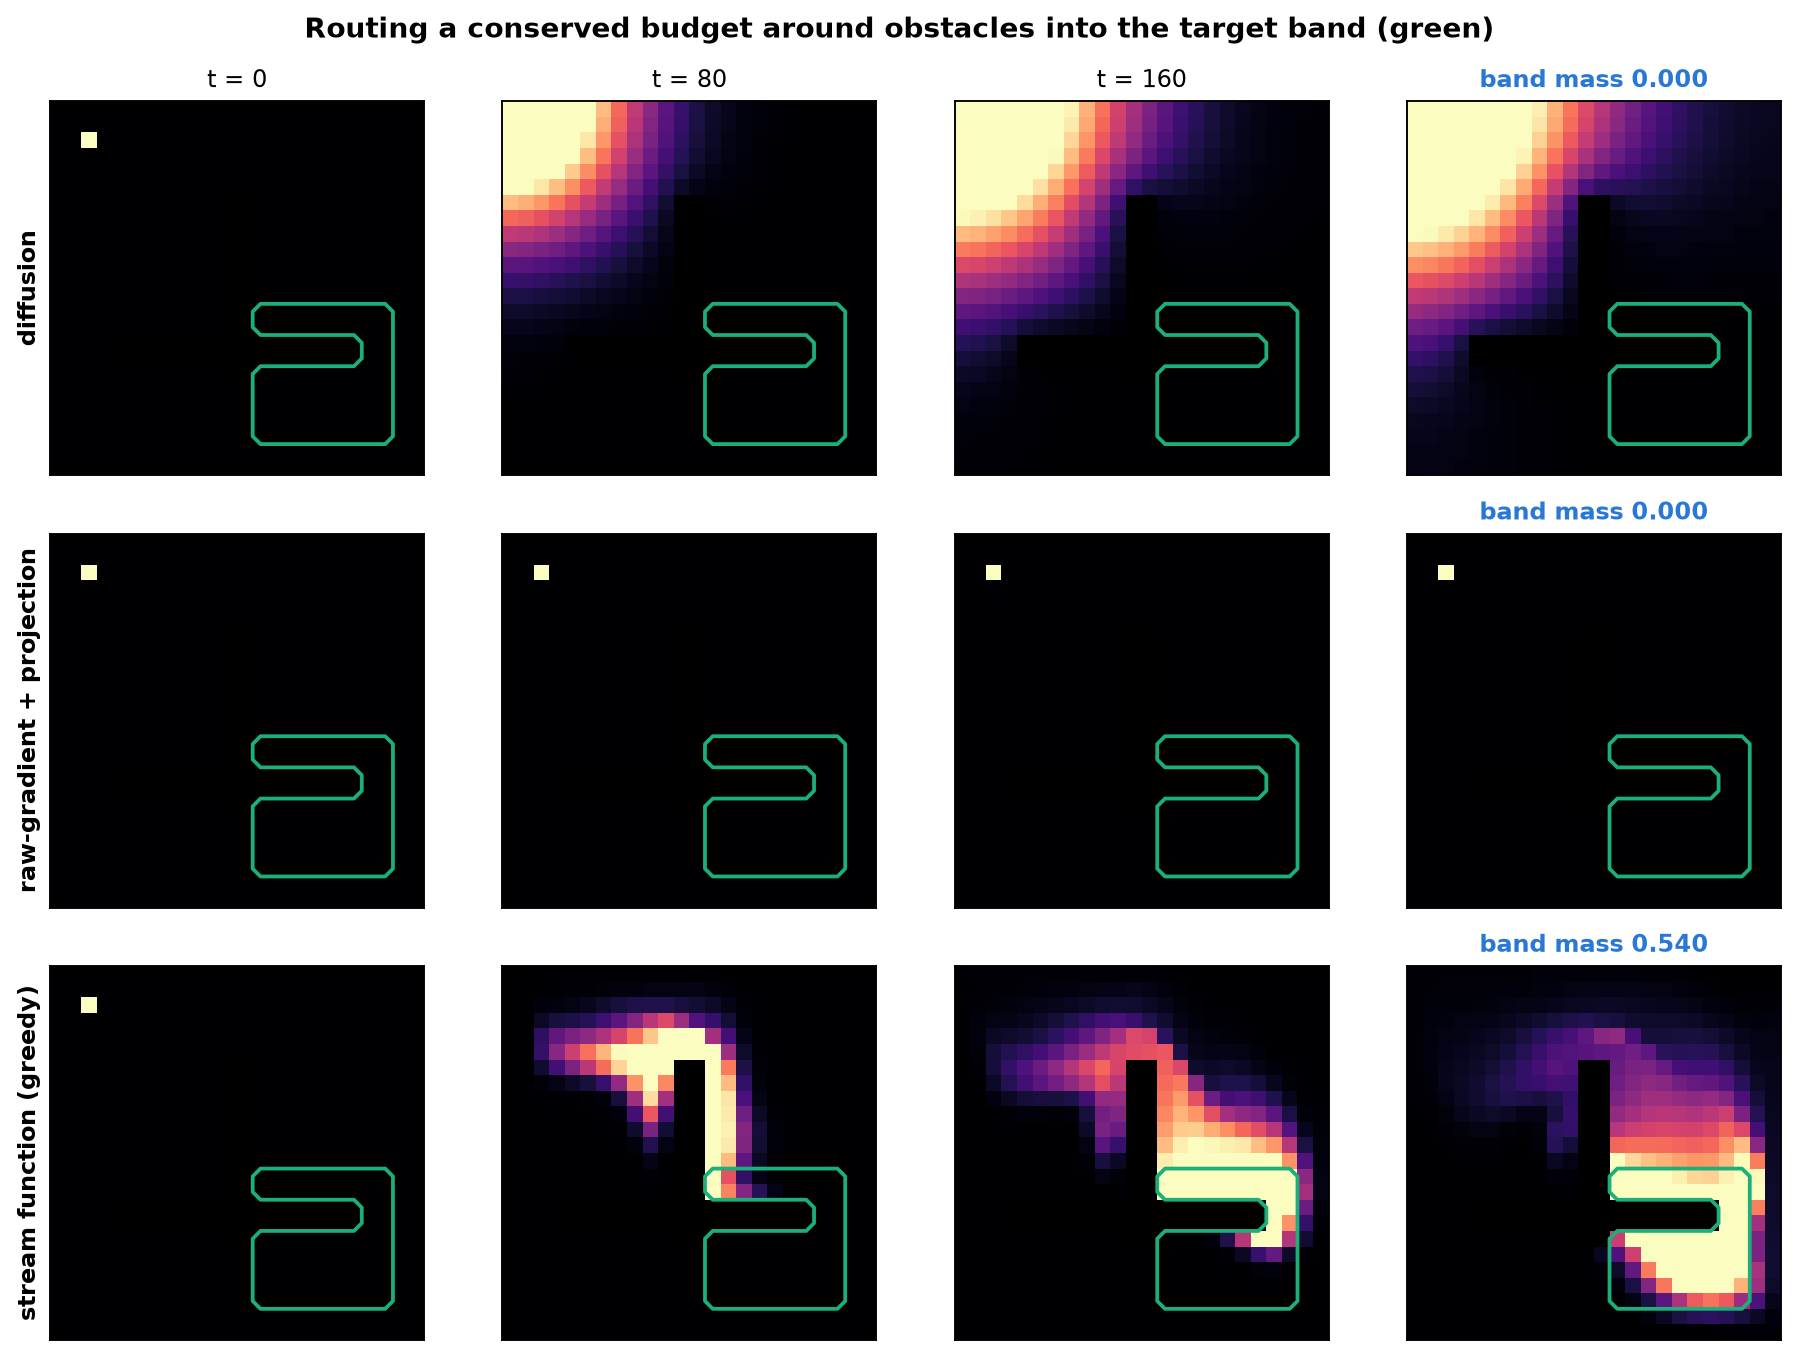
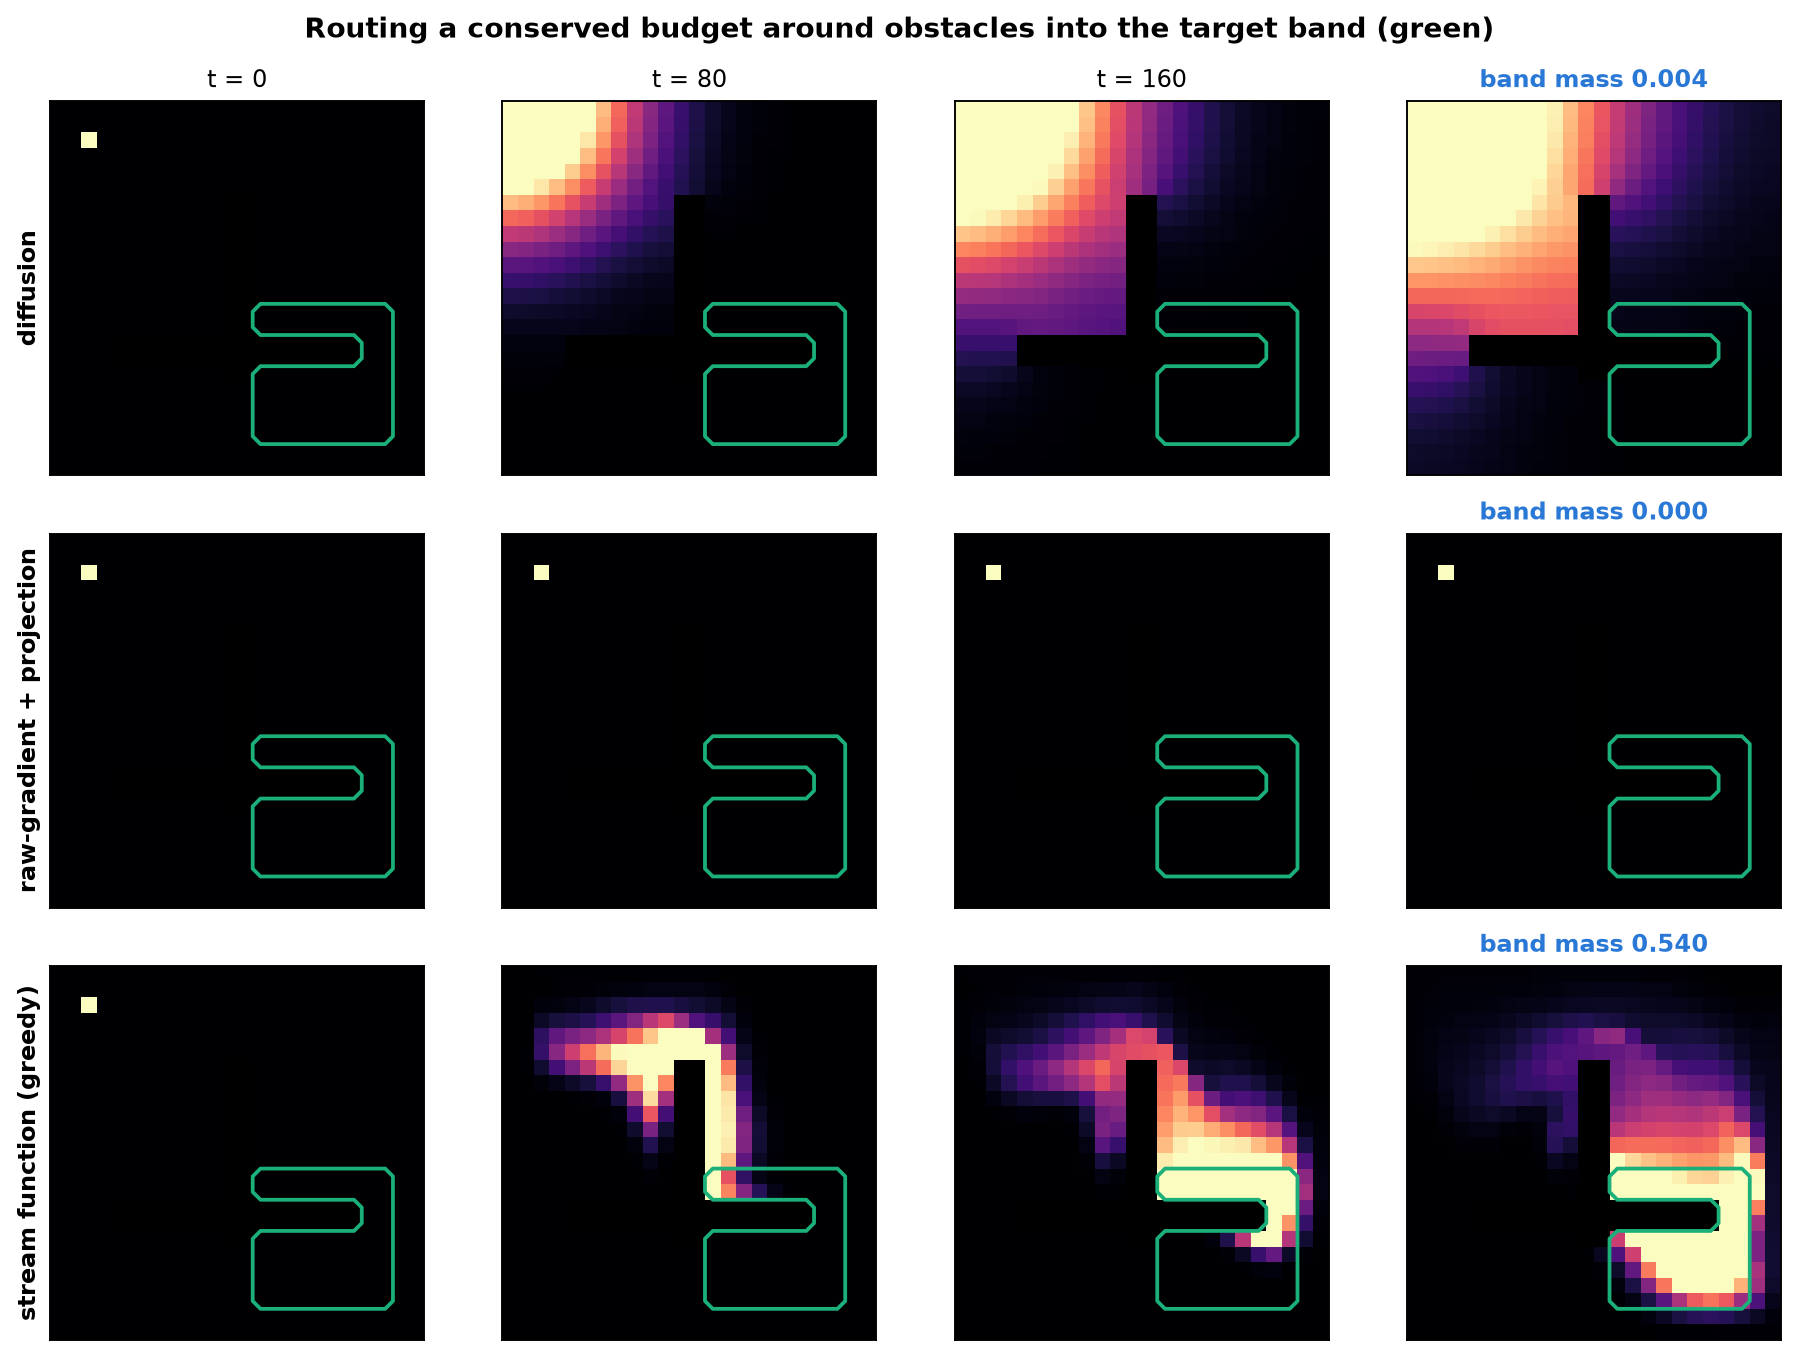
Stop diffusion destroying mass at obstacle walls
laplacian_cell closes the domain border but knows nothing about obstacles, so the
diffusion term pushed mass across obstacle faces into blocked cells, which advect
then zeroed. On the routing grid that destroyed ~30% of the budget over a rollout,
in a task whose whole premise is a conserved one.

It only bit the diffusion baseline, which runs at kappa 0.3 while the stream and
raw-gradient routes run at 0. So the one mechanism silently losing mass was the
baseline being argued against, and the error flattered my own conclusion: diffusion
delivers 0.0035 band mass, not the 0.0005 reported, and its expected distance is
17.13 rather than 12.67. The stream function still wins by ~150x.

The fix masks the diffusive flux to the open faces with face_masks_from_cells,
which was already in operators.py and had never been wired up. The step stays a
difference of face fluxes, so it still telescopes to zero, and no face touching a
blocked cell carries anything. With no obstacles it is exactly laplacian_cell.

The tests missed this because they covered kappa > 0 without obstacles and
obstacles without kappa, never both. That cell is covered now.

Changed region(s): [[0.7791, 0.0619, 0.9661, 0.3405], [0.5298, 0.0619, 0.6856, 0.2786], [0.3428, 0.1238, 0.4051, 0.2167]]

diff --git a/other/tests/test_fluid_invariants.py b/other/tests/test_fluid_invariants.py
@@ -72,6 +72,41 @@ def test_advection_conserves_mass_exactly():
     assert drift < 1e-12, drift
 
 
+def test_diffusion_conserves_mass_with_obstacles():
+    """Diffusion and obstacles together: the case each of the tests above misses.
+
+    `test_advection_conserves_mass_exactly` runs kappa > 0 on an open grid, and
+    `test_obstacles_are_no_through` runs obstacles at kappa = 0. Between them they let a
+    leak through: an unmasked Laplacian diffuses mass into blocked cells, which `advect`
+    then zeroes, destroying ~30% of the budget over a rollout.
+    """
+    free = torch.ones(H, W, dtype=torch.bool)
+    free[6:18, 10:13] = False
+    free[15:17, 4:20] = False
+
+    psi = torch.randn(B, H + 1, W + 1, dtype=torch.float64) * node_mask_from_cells(free)
+    ux, uy = curl_from_stream(psi)
+    ux, uy, _ = rescale_to_cfl(ux, uy, dt=0.5, target=0.4)
+
+    rho = renormalise(torch.rand(B, H, W, dtype=torch.float64) * free)
+    m0 = total_mass(rho)
+    for _ in range(50):
+        rho = advect(rho, ux, uy, dt=0.5, kappa=0.3, free_cell=free)
+
+    assert (total_mass(rho) - m0).abs().max() < 1e-12, (total_mass(rho) - m0).abs().max()
+    assert rho[:, ~free].abs().max() == 0
+
+
+def test_masked_diffusion_reduces_to_the_plain_laplacian_on_an_open_grid():
+    from other.fluid.advection import diffusion
+    from other.fluid.operators import laplacian_cell
+
+    rho = torch.rand(B, H, W, dtype=torch.float64)
+    free = torch.ones(H, W, dtype=torch.bool)
+    assert torch.allclose(diffusion(rho, free_cell=None), laplacian_cell(rho))
+    assert torch.allclose(diffusion(rho, free_cell=free), laplacian_cell(rho))
+
+
 def test_cfl_targeting_hits_the_target():
     psi = torch.randn(B, H + 1, W + 1, dtype=torch.float64)
     ux, uy = curl_from_stream(psi)

diff --git a/other/fluid/advection.py b/other/fluid/advection.py
@@ -13,7 +13,8 @@ structurally rather than approximately:
   * Positivity. Upwind flux takes mass from the donor cell only, so under CFL <= 1
     no cell can be driven negative and rho remains interpretable as a mass.
 
-Diffusion uses the same Neumann Laplacian, which is also exactly conservative.
+Diffusion is a difference of face fluxes for the same reason, and is masked to the
+open faces so that it conserves mass on a grid with obstacles too.
 """
 
 from __future__ import annotations
@@ -23,7 +24,7 @@ from typing import Optional, Tuple
 import torch
 from torch import Tensor
 
-from .operators import laplacian_cell
+from .operators import divergence, face_masks_from_cells, gradient
 
 
 def upwind_fluxes(rho: Tensor, ux: Tensor, uy: Tensor) -> Tuple[Tensor, Tensor]:
@@ -47,6 +48,24 @@ def upwind_fluxes(rho: Tensor, ux: Tensor, uy: Tensor) -> Tuple[Tensor, Tensor]:
     return flux_x, flux_y
 
 
+def diffusion(
+    rho: Tensor, dx: float = 1.0, dy: float = 1.0, free_cell: Optional[Tensor] = None
+) -> Tensor:
+    """lap(rho), with zero flux through the domain wall and through obstacle faces.
+
+    `laplacian_cell` closes only the domain border, so on a grid with obstacles it
+    diffuses mass into blocked cells, which `advect` then deletes -- a silent leak.
+    Masking the diffusive flux to the open faces keeps the step a difference of face
+    fluxes, so it still telescopes to zero, and no face touching a blocked cell carries
+    anything. With no obstacles this is exactly `laplacian_cell`.
+    """
+    gx, gy = gradient(rho, dx, dy)
+    if free_cell is not None:
+        fx, fy = face_masks_from_cells(free_cell)
+        gx, gy = gx * fx, gy * fy
+    return divergence(gx, gy, dx, dy)
+
+
 def advect(
     rho: Tensor,
     ux: Tensor,
@@ -67,7 +86,7 @@ def advect(
     rho_new = rho - dt * div_flux
 
     if kappa > 0:
-        rho_new = rho_new + dt * kappa * laplacian_cell(rho, dx, dy)
+        rho_new = rho_new + dt * kappa * diffusion(rho, dx, dy, free_cell)
 
     if free_cell is not None:
         rho_new = rho_new * free_cell

diff --git a/other/README.md b/other/README.md
@@ -58,7 +58,28 @@ In [`docs/FINDINGS.md`](docs/FINDINGS.md). The short version:
   projector destroys **100%** of an ideal `−∇W` drift. Parameterise inside the solenoidal subspace.
 * The paper's κ = 0.3 diffusion warm-up **does not transfer** to classification, and the residual
   wrapper — not the κ value — is what makes the layer safe to insert at all.
-* On **routing** the layer wins outright: 54% of the budget delivered, vs 0.05% for diffusion and 0%
+* On **routing** the layer wins outright: 54% of the budget delivered, vs 0.35% for diffusion and 0%
   for raw-gradient + projection.
 * On **classification** it is strictly dominated: at matched capacity a plain layer beats it, 21×
   faster.
+
+## A correction worth reading
+
+The routing table originally reported **0.0005** band mass for the diffusion baseline. That was
+wrong, and it was wrong in the direction that flattered my own conclusion.
+
+`laplacian_cell` enforces zero flux at the domain border but knows nothing about obstacles, so the
+diffusion term pushed mass across obstacle walls into blocked cells, which the advection step then
+deleted — destroying ~30% of the budget over a rollout, in a task whose whole premise is a *conserved*
+budget. The stream-function and raw-gradient routes were unaffected (they run at κ = 0), so the one
+mechanism silently losing mass was the baseline I was arguing against.
+
+Fixed in `fluid/advection.py::diffusion`, which masks the diffusive flux to the open faces using
+`face_masks_from_cells` — a helper that already existed in `operators.py` and had never been wired
+up. Diffusion now conserves mass exactly and delivers **0.0035**, seven times more than reported.
+The conclusion is unchanged: the stream function still wins by ~150×.
+
+The tests missed it because they covered κ > 0 *without* obstacles
+(`test_advection_conserves_mass_exactly`) and obstacles *without* κ
+(`test_obstacles_are_no_through_and_still_divergence_free`), and never both.
+`test_diffusion_conserves_mass_with_obstacles` now covers that cell.

diff --git a/other/docs/FINDINGS.md b/other/docs/FINDINGS.md
@@ -138,13 +138,20 @@ But classification is not the task In-Fluid-Net was designed for. The paper's ow
 mass-conserving transport should matter. We reproduced it (24×24 grid, seed at top-left, target
 band bottom-right, a pillar and a bar in the way) and — unlike the paper — ran baselines:
 
-| mechanism | band mass ↑ | E[distance] ↓ | ‖div u‖ | CFL |
-|---|---|---|---|---|
-| isotropic diffusion | 0.0005 | 12.67 | 0 | 0 |
-| raw gradient + Leray projection | **0.0000** | 22.00 | ~0 | 0 |
-| **stream function + greedy controller** | **0.5400** | **2.64** | 9e-07 | 0.40 |
+| mechanism | band mass ↑ | E[distance] ↓ | ‖div u‖ | CFL | final mass |
+|---|---|---|---|---|---|
+| isotropic diffusion | 0.0035 | 17.13 | 0 | 0 | 1.0000 |
+| raw gradient + Leray projection | **0.0000** | 22.00 | ~0 | 0 | 1.0000 |
+| **stream function + greedy controller** | **0.5400** | **2.64** | 9e-07 | 0.40 | 1.0000 |
 
-**54% of the entire budget is delivered into the band.** Diffusion delivers 0.05% — it spreads
+The last column is the control that makes the comparison meaningful: all three mechanisms end with
+the **entire budget still on the grid**, so the band-mass column is measuring where the mass went,
+not how much of it was lost along the way. (An earlier version of this table read 0.0005 for
+diffusion, because the diffusion operator was leaking mass into the obstacle cells and the advection
+step was deleting it — the baseline was being handicapped by a bug, in the direction that flattered
+our own conclusion. Fixed; see `fluid/advection.py::diffusion`.)
+
+**54% of the entire budget is delivered into the band.** Diffusion delivers 0.35% — it spreads
 into the nearest corner and never arrives, exactly the failure the paper's introduction describes.
 
 ![routing](../figures/fig5_routing_task.png)
@@ -203,7 +210,7 @@ it will win, and win big.
 | Parameterise inside the divergence-free subspace; projection is a safety net | **confirmed** | Emphatically. The projector destroys **100%** of an ideal raw-gradient drift. A stream function retains 100% and makes the projector a no-op (and 3.3× faster). |
 | Anneal diffusion κ: 0.3 → 0 to "explore then sharpen" | **does not transfer** | Not to classification, where the density *is* the signal, and κ=0.3 drives a linear probe to chance in one step. A **residual** wrapper makes the layer safe and defuses κ entirely (and makes it pointless). |
 | Target CFL ∈ [0.3, 0.45] | **confirmed** | And free to enforce exactly, since a per-sample rescale cannot introduce divergence. |
-| Incompressible transport beats undirected diffusion for routing | **confirmed** | Quantified: 54% of the budget delivered vs 0.05% for diffusion. |
+| Incompressible transport beats undirected diffusion for routing | **confirmed** | Quantified: 54% of the budget delivered vs 0.35% for diffusion, at equal budget. |
 | (implied) this should make a better network | **not at classification** | At matched capacity a plain MLP beats the fluid layer at 1/20th the cost. HJB regularisation makes it worse still. |
 
 **The thing worth acting on: stop evaluating In-Fluid-Net on classification.** The transport

diff --git a/other/docs/UNDERSTANDING.md b/other/docs/UNDERSTANDING.md
@@ -29,7 +29,9 @@ That is the paper's "budget faithfulness".
 The first two terms say: the density at a point changes only because stuff *flowed in or out*. It
 cannot appear from nowhere. Discretely, we compute the flux across each cell face and subtract what
 leaves from what arrives. Sum over all cells and the interior fluxes cancel in pairs — so total mass
-is conserved **exactly**, not approximately. (`fluid/advection.py`.)
+is conserved **exactly**, not approximately. The diffusion term on the right is masked to the open
+faces for the same reason, so that conservation survives on a grid with obstacles in it.
+(`fluid/advection.py`.)
 
 **2. Incompressibility (`∇·u = 0`).**
 
@@ -66,6 +68,10 @@ of the wall has *equal `ψ` at both endpoints*, so the velocity across it is exa
 no-through boundary. And because the field is still a curl, it is still divergence-free. You get
 walls for free, with no special-casing. This is elegant and it is the kind of thing that makes the
 staggered-grid formulation worth the bookkeeping.
+
+The one place this does *not* come for free is diffusion, which is not built from `ψ` at all: it
+needs its flux masked to the open faces explicitly, or it leaks mass into the walls.
+(`fluid/advection.py: diffusion`.)
 
 **Where it lives:** `other/fluid/`. Remove the directory and nothing on the PC path breaks.
 